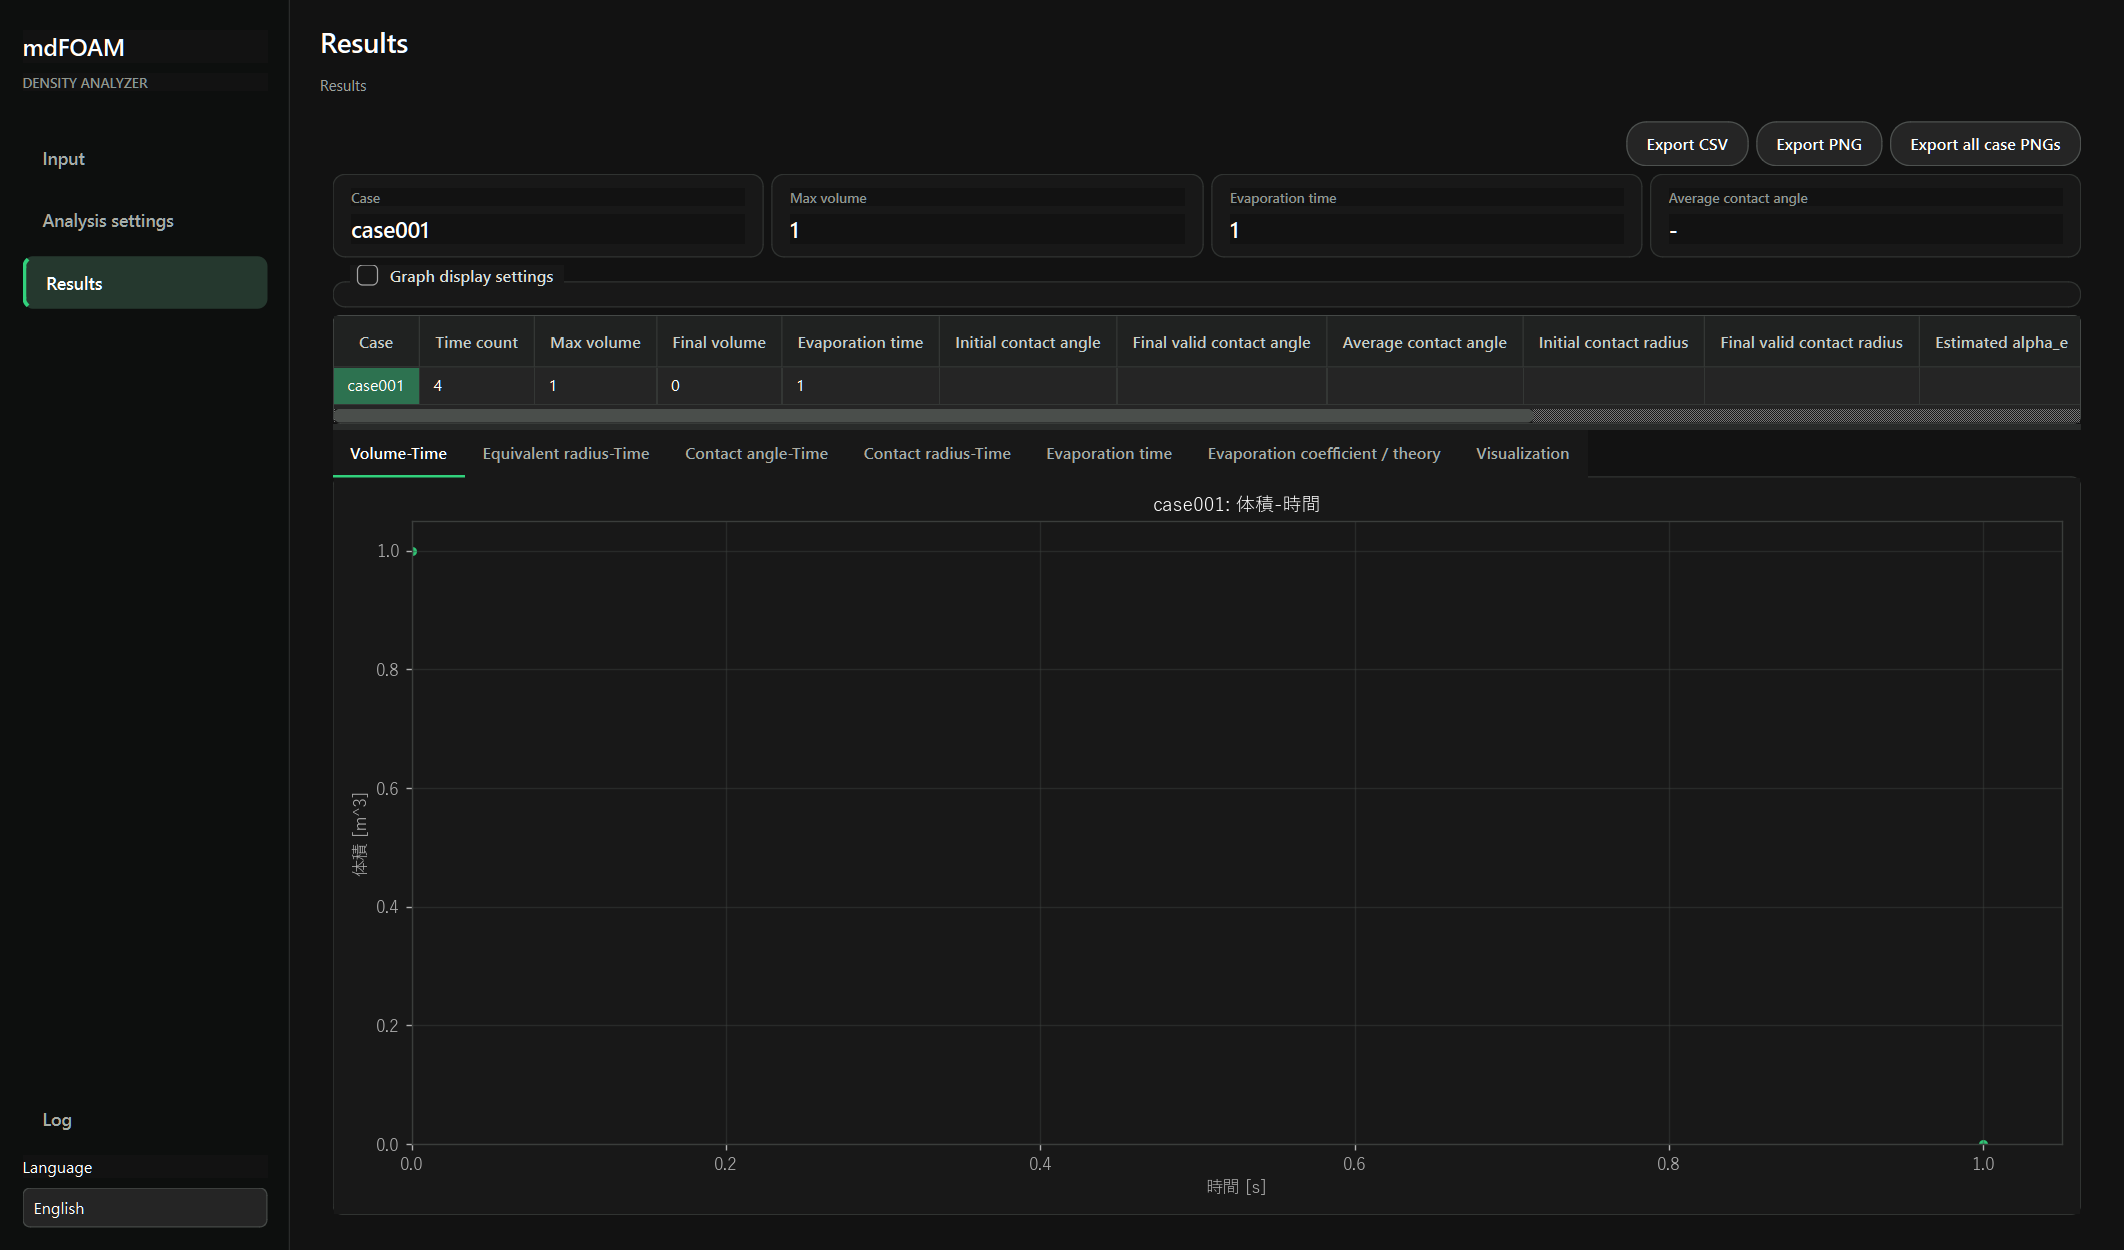
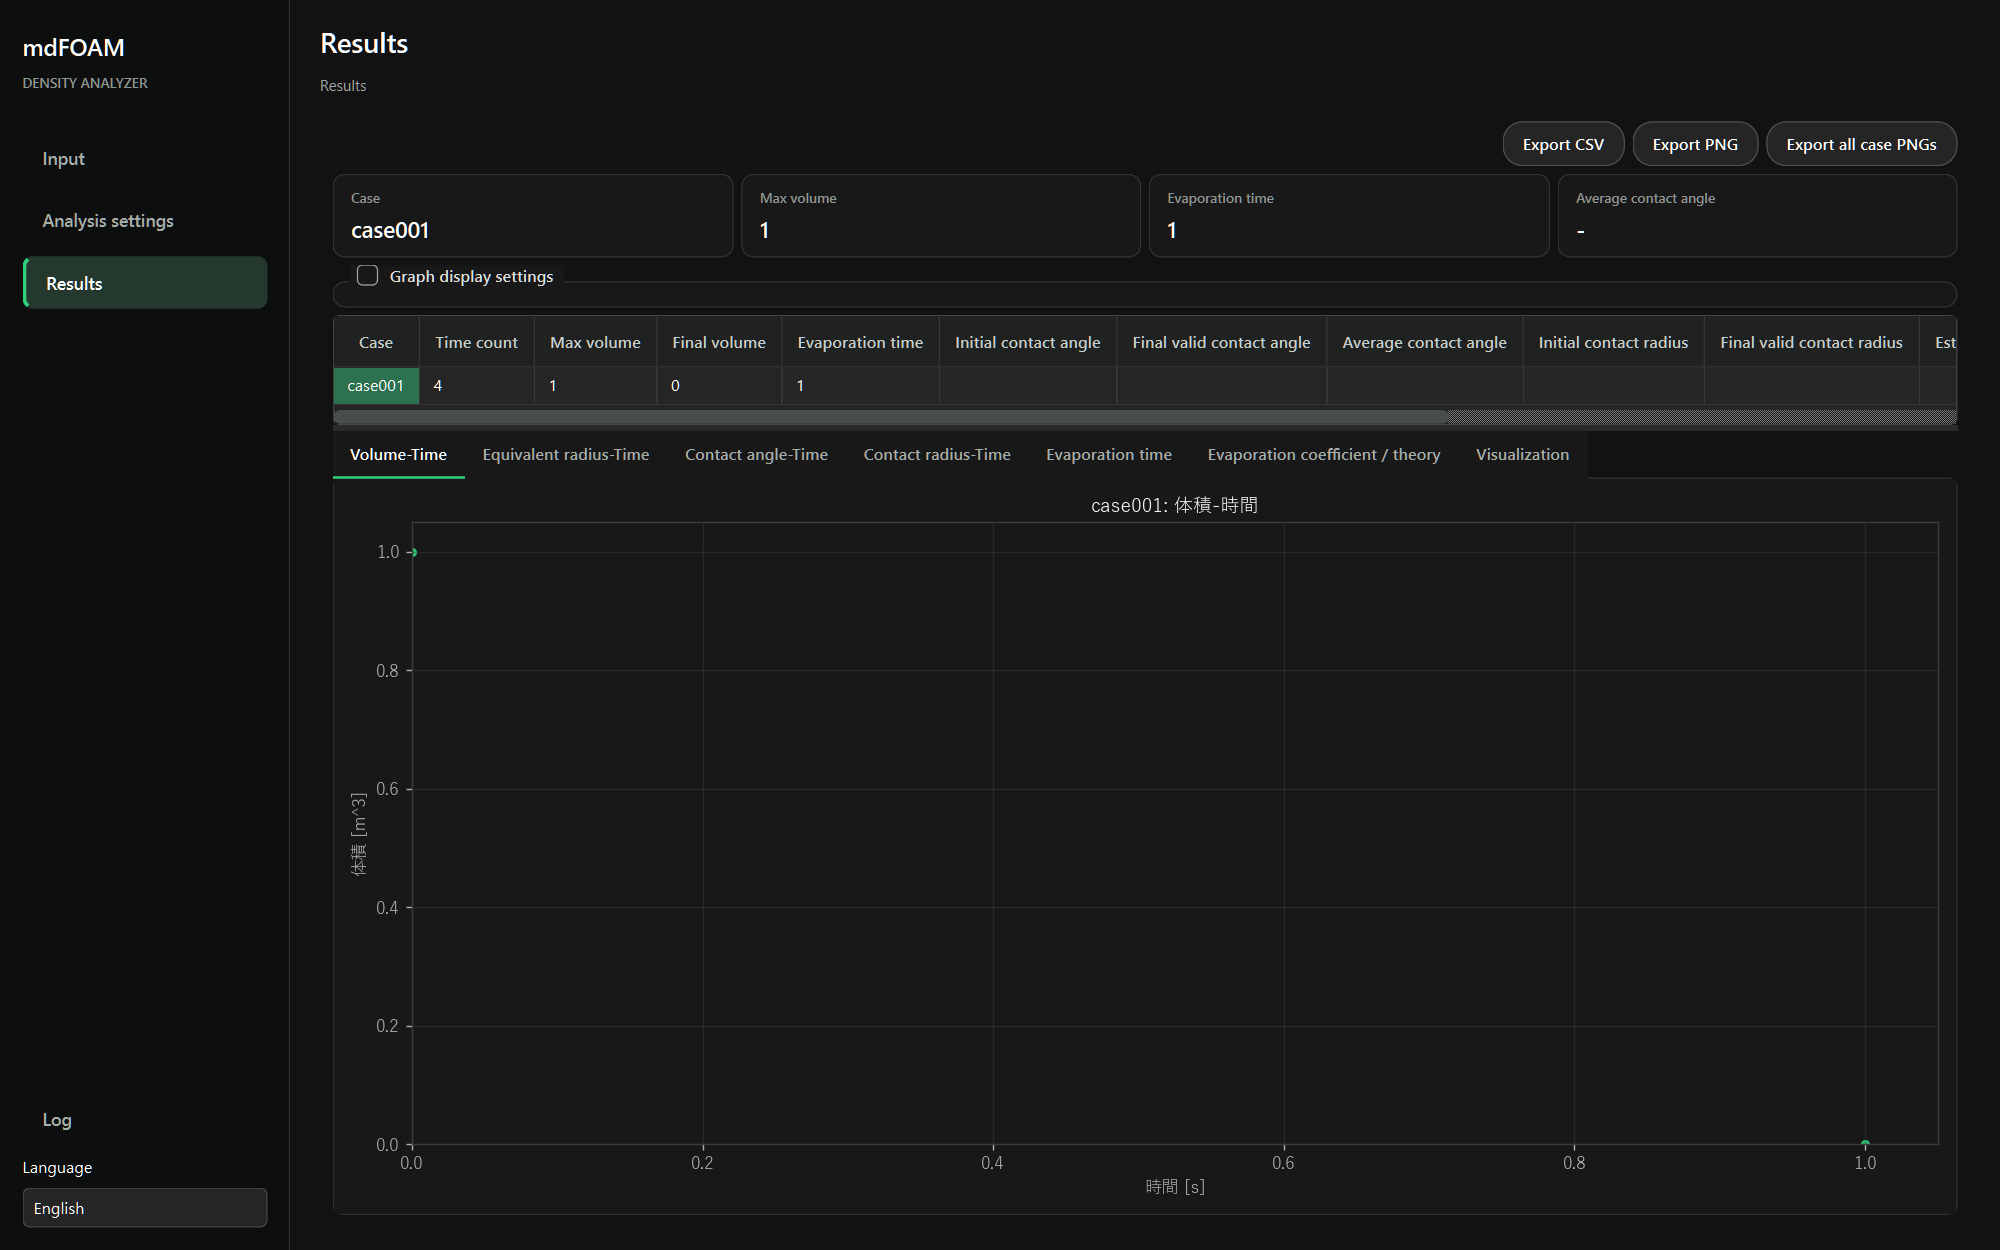
Fix PNG preview and export print theme

diff --git a/src/mdfoam_analyzer/gui.py b/src/mdfoam_analyzer/gui.py
@@ -1032,6 +1032,7 @@ class PlotWidget(QWidget):
         self.figure = Figure(figsize=(5, 3), tight_layout=True, facecolor=COLORS["surface"])
         self.canvas = FigureCanvas(self.figure)
         self.settings = GraphSettings()
+        self.light_theme = False
         self._last_plot: tuple[str, str, str, str, list, list] | None = None
         self._last_series: tuple[str, str, str, list[PlotSeries]] | None = None
         layout = QVBoxLayout(self)
@@ -1088,7 +1089,7 @@ class PlotWidget(QWidget):
                     item.x,
                     item.y,
                     label=item.label,
-                    color=item.color,
+                    color=self._display_series_color(item.color),
                     linestyle=item.linestyle,
                     linewidth=item.linewidth,
                     alpha=self.settings.point_alpha,
@@ -1099,7 +1100,7 @@ class PlotWidget(QWidget):
                     item.y,
                     label=item.label,
                     s=self.settings.point_size,
-                    c=item.color or self.settings.point_color,
+                    c=self._display_series_color(item.color) or self.settings.point_color,
                     alpha=self.settings.point_alpha,
                     marker=item.marker or self.settings.marker,
                 )
@@ -1133,14 +1134,23 @@ class PlotWidget(QWidget):
             self.clear(title)
 
     def save_png(self, path: Path) -> None:
-        self.figure.set_size_inches(self.settings.image_width, self.settings.image_height, forward=False)
-        self.figure.tight_layout()
-        self.figure.savefig(
-            path,
-            dpi=self.settings.dpi,
-            transparent=self.settings.transparent,
-            bbox_inches="tight",
-        )
+        original_theme = self.light_theme
+        self.light_theme = True
+        try:
+            self.redraw()
+            self.figure.set_size_inches(self.settings.image_width, self.settings.image_height, forward=False)
+            self.figure.tight_layout()
+            self.figure.savefig(
+                path,
+                dpi=self.settings.dpi,
+                transparent=self.settings.transparent,
+                facecolor="white",
+                edgecolor="white",
+                bbox_inches="tight",
+            )
+        finally:
+            self.light_theme = original_theme
+            self.redraw()
 
     def copy_plot_state_from(self, other: "PlotWidget") -> None:
         self.settings = GraphSettings(**vars(other.settings))
@@ -1180,14 +1190,24 @@ class PlotWidget(QWidget):
         is_bar: bool = False,
     ) -> None:
         settings = self.settings
-        self.figure.set_facecolor(COLORS["surface"])
-        axis.set_facecolor(COLORS["surface"])
-        axis.tick_params(colors=COLORS["muted"])
-        axis.xaxis.label.set_color(COLORS["muted"])
-        axis.yaxis.label.set_color(COLORS["muted"])
-        axis.title.set_color(COLORS["text"])
+        background = "#ffffff" if self.light_theme else COLORS["surface"]
+        foreground = "#111111" if self.light_theme else COLORS["muted"]
+        spine_color = "#111111" if self.light_theme else COLORS["border"]
+        grid_color = "#c8c8c8" if self.light_theme else COLORS["grid"]
+        self.figure.set_facecolor(background)
+        axis.set_facecolor(background)
+        axis.tick_params(colors=foreground)
+        axis.xaxis.label.set_color(foreground)
+        axis.yaxis.label.set_color(foreground)
+        axis.title.set_color("#111111" if self.light_theme else COLORS["text"])
         for spine in axis.spines.values():
-            spine.set_color(COLORS["border"])
+            spine.set_color(spine_color)
+        legend = axis.get_legend()
+        if legend is not None:
+            legend.get_frame().set_facecolor("#ffffff" if self.light_theme else COLORS["surface_alt"])
+            legend.get_frame().set_edgecolor(spine_color)
+            for text in legend.get_texts():
+                text.set_color("#111111" if self.light_theme else COLORS["text"])
         if settings.title_visible and title:
             axis.set_title(title, fontsize=settings.font_size + 1)
         axis.set_xlabel(x_label if settings.axis_labels_visible else "", fontsize=settings.font_size)
@@ -1202,7 +1222,7 @@ class PlotWidget(QWidget):
             labelbottom=settings.tick_labels_visible,
             labelleft=settings.tick_labels_visible,
         )
-        axis.grid(settings.grid_visible, color=COLORS["grid"], alpha=0.45)
+        axis.grid(settings.grid_visible, color=grid_color, alpha=0.65 if self.light_theme else 0.45)
         if settings.axis_mode in ("auto_fixed", "manual_fixed") or not settings.axis_auto:
             if not is_bar and settings.x_min < settings.x_max:
                 axis.set_xlim(settings.x_min, settings.x_max)
@@ -1213,14 +1233,25 @@ class PlotWidget(QWidget):
         else:
             axis.set_aspect("auto")
 
+    def _display_series_color(self, color: str | None) -> str | None:
+        if self.light_theme and color == COLORS["md_series"]:
+            return "#111111"
+        return color
+
 
 class CombinedPlotWidget(QWidget):
-    def __init__(self, source_plots: list[PlotWidget], owns_source_plots: bool = False) -> None:
+    def __init__(
+        self,
+        source_plots: list[PlotWidget],
+        owns_source_plots: bool = False,
+        light_theme: bool = False,
+    ) -> None:
         super().__init__()
         self.figure = Figure(figsize=(8, 5), tight_layout=True, facecolor=COLORS["surface"])
         self.canvas = FigureCanvas(self.figure)
         self.source_plots = source_plots
         self.owns_source_plots = owns_source_plots
+        self.light_theme = light_theme
         self.settings = GraphSettings(**vars(source_plots[0].settings)) if source_plots else GraphSettings()
         self.settings.image_height = min(30.0, max(self.settings.image_height, self.settings.image_height * max(1, len(source_plots))))
         self._last_plot = source_plots[0]._last_plot if source_plots else None
@@ -1238,7 +1269,7 @@ class CombinedPlotWidget(QWidget):
             return
         axes = self.figure.subplots(len(self.source_plots), 1, squeeze=False)
         for axis, plot in zip(axes[:, 0], self.source_plots):
-            _draw_plot_on_axis(plot, axis, self._settings_for_source_plot(plot))
+            _draw_plot_on_axis(plot, axis, self._settings_for_source_plot(plot), self.light_theme)
         self.figure.tight_layout()
         self.canvas.draw_idle()
 
@@ -1255,14 +1286,23 @@ class CombinedPlotWidget(QWidget):
         return settings
 
     def save_png(self, path: Path) -> None:
-        self.figure.set_size_inches(self.settings.image_width, self.settings.image_height, forward=False)
-        self.figure.tight_layout()
-        self.figure.savefig(
-            path,
-            dpi=self.settings.dpi,
-            transparent=self.settings.transparent,
-            bbox_inches="tight",
-        )
+        original_theme = self.light_theme
+        self.light_theme = True
+        try:
+            self.redraw()
+            self.figure.set_size_inches(self.settings.image_width, self.settings.image_height, forward=False)
+            self.figure.tight_layout()
+            self.figure.savefig(
+                path,
+                dpi=self.settings.dpi,
+                transparent=self.settings.transparent,
+                facecolor="white",
+                edgecolor="white",
+                bbox_inches="tight",
+            )
+        finally:
+            self.light_theme = original_theme
+            self.redraw()
 
     def closeEvent(self, event) -> None:
         if self.owns_source_plots:
@@ -1299,8 +1339,10 @@ class GraphPngPreviewDialog(QDialog):
             if len(plots) == 1:
                 preview = PlotWidget()
                 preview.copy_plot_state_from(plots[0])
+                preview.light_theme = True
+                preview.redraw()
             else:
-                preview = CombinedPlotWidget(plots)
+                preview = CombinedPlotWidget(plots, light_theme=True)
             self.preview_widgets.append(preview)
         self.preview_plot: PlotWidget | CombinedPlotWidget = self.preview_widgets[0]
 
@@ -3719,7 +3761,7 @@ class MainWindow(QMainWindow):
                     em_times,
                     md_evaporated_masses,
                     style="scatter",
-                    color="#111111",
+                    color=COLORS["md_series"],
                     marker="o",
                 )
             )
@@ -3729,7 +3771,7 @@ class MainWindow(QMainWindow):
                     radius_times,
                     md_equivalent_radii,
                     style="scatter",
-                    color="#111111",
+                    color=COLORS["md_series"],
                     marker="o",
                 )
             )
@@ -4229,7 +4271,9 @@ class MainWindow(QMainWindow):
         if self.theory_show_md_check.isChecked():
             values = comparison.md_evaporated_masses if value_kind == "em" else comparison.md_equivalent_radii
             x_values, y_values = _clip_xy_to_evaporation(result, comparison.times, values)
-            series_list.append(PlotSeries("MD", x_values, y_values, style="scatter", color="#111111", marker="o"))
+            series_list.append(
+                PlotSeries("MD", x_values, y_values, style="scatter", color=COLORS["md_series"], marker="o")
+            )
         alpha_colors = {0.8: "#1f77b4", 0.9: "#ff7f0e", 1.0: "#2ca02c"}
         for alpha, checkbox in self.theory_alpha_checks.items():
             if not checkbox.isChecked():
@@ -4430,13 +4474,20 @@ def _padded_value_range(values: list[float]) -> tuple[float, float] | None:
     return lower, upper
 
 
-def _draw_plot_on_axis(plot: PlotWidget, axis, settings: GraphSettings) -> None:
+def _draw_plot_on_axis(
+    plot: PlotWidget,
+    axis,
+    settings: GraphSettings,
+    light_theme: bool = False,
+) -> None:
     if plot._last_plot is None:
         axis.set_axis_off()
         return
     kind, title, x_label, y_label, x, y = plot._last_plot
     original_settings = plot.settings
+    original_theme = plot.light_theme
     plot.settings = settings
+    plot.light_theme = light_theme
     try:
         if kind == "xy":
             axis.scatter(
@@ -4462,7 +4513,7 @@ def _draw_plot_on_axis(plot: PlotWidget, axis, settings: GraphSettings) -> None:
                         item.x,
                         item.y,
                         label=item.label,
-                        color=item.color,
+                        color=plot._display_series_color(item.color),
                         linestyle=item.linestyle,
                         linewidth=item.linewidth,
                         alpha=settings.point_alpha,
@@ -4473,7 +4524,7 @@ def _draw_plot_on_axis(plot: PlotWidget, axis, settings: GraphSettings) -> None:
                         item.y,
                         label=item.label,
                         s=settings.point_size,
-                        c=item.color or settings.point_color,
+                        c=plot._display_series_color(item.color) or settings.point_color,
                         alpha=settings.point_alpha,
                         marker=item.marker or settings.marker,
                     )
@@ -4484,6 +4535,7 @@ def _draw_plot_on_axis(plot: PlotWidget, axis, settings: GraphSettings) -> None:
             plot._apply_common_style(axis, "", "", title)
     finally:
         plot.settings = original_settings
+        plot.light_theme = original_theme
 
 
 def _quality_label_for_dpi(dpi: int) -> str:

diff --git a/tests/test_gui_theory.py b/tests/test_gui_theory.py
@@ -6,6 +6,8 @@ import sys
 import tempfile
 import unittest
 
+from PIL import Image
+
 
 os.environ.setdefault("QT_QPA_PLATFORM", "offscreen")
 
@@ -196,6 +198,8 @@ class GuiTheorySettingsTests(unittest.TestCase):
             window.tabs.setCurrentWidget(window.theory_tab)
             for plot in (window.theory_em_plot, window.theory_radius_plot):
                 self.assertIsNotNone(plot._last_series)
+                md_series = next(series for series in plot._last_series[3] if series.label == "MD")
+                self.assertEqual(md_series.color, "#f2f5f3")
                 for series in plot._last_series[3]:
                     self.assertTrue(all(time <= 2.0 for time in series.x))
 
@@ -243,6 +247,8 @@ class GuiTheorySettingsTests(unittest.TestCase):
             try:
                 self.assertIsNotNone(dialog.source_combo)
                 self.assertEqual(dialog.preview_plot._last_plot[1], "first")
+                self.assertEqual(dialog.preview_plot.figure.get_facecolor()[:3], (1.0, 1.0, 1.0))
+                self.assertEqual(dialog.preview_plot.figure.axes[0].get_facecolor()[:3], (1.0, 1.0, 1.0))
                 dialog.source_combo.setCurrentIndex(1)
                 self.assertEqual(dialog.preview_plot._last_plot[1], "second")
                 dialog.source_combo.setCurrentIndex(2)
@@ -254,11 +260,28 @@ class GuiTheorySettingsTests(unittest.TestCase):
                     dialog.preview_plot.save_png(output_path)
                     self.assertTrue(output_path.is_file())
                     self.assertGreater(output_path.stat().st_size, 0)
+                    with Image.open(output_path) as image:
+                        self.assertEqual(image.convert("RGB").getpixel((0, 0)), (255, 255, 255))
             finally:
                 dialog.close()
         finally:
             first.close()
             second.close()
+
+    def test_png_export_uses_print_theme_and_restores_dark_canvas(self) -> None:
+        plot = PlotWidget()
+        try:
+            plot.plot_xy("title", "x", "y", [0.0, 1.0], [1.0, 2.0])
+            self.assertNotEqual(plot.figure.get_facecolor()[:3], (1.0, 1.0, 1.0))
+            with tempfile.TemporaryDirectory() as directory:
+                output_path = Path(directory) / "plot.png"
+                plot.save_png(output_path)
+                with Image.open(output_path) as image:
+                    self.assertEqual(image.convert("RGB").getpixel((0, 0)), (255, 255, 255))
+            self.assertFalse(plot.light_theme)
+            self.assertNotEqual(plot.figure.get_facecolor()[:3], (1.0, 1.0, 1.0))
+        finally:
+            plot.close()
 
     def test_graph_axes_are_fixed_across_cases_and_manual_mode_overrides(self) -> None:
         window = MainWindow()

diff --git a/src/mdfoam_analyzer/theme.py b/src/mdfoam_analyzer/theme.py
@@ -10,6 +10,7 @@ COLORS = {
     "border": "#3a3d3b",
     "text": "#ffffff",
     "muted": "#b3b3b3",
+    "md_series": "#f2f5f3",
     "accent": "#31d17c",
     "accent_hover": "#43e38e",
     "accent_pressed": "#25b96a",
@@ -28,6 +29,9 @@ QWidget {
 }
 QMainWindow, QDialog {
     background: #121212;
+}
+QLabel, QCheckBox, QRadioButton {
+    background: transparent;
 }
 QFrame#sidebar {
     background: #0d0f0e;
